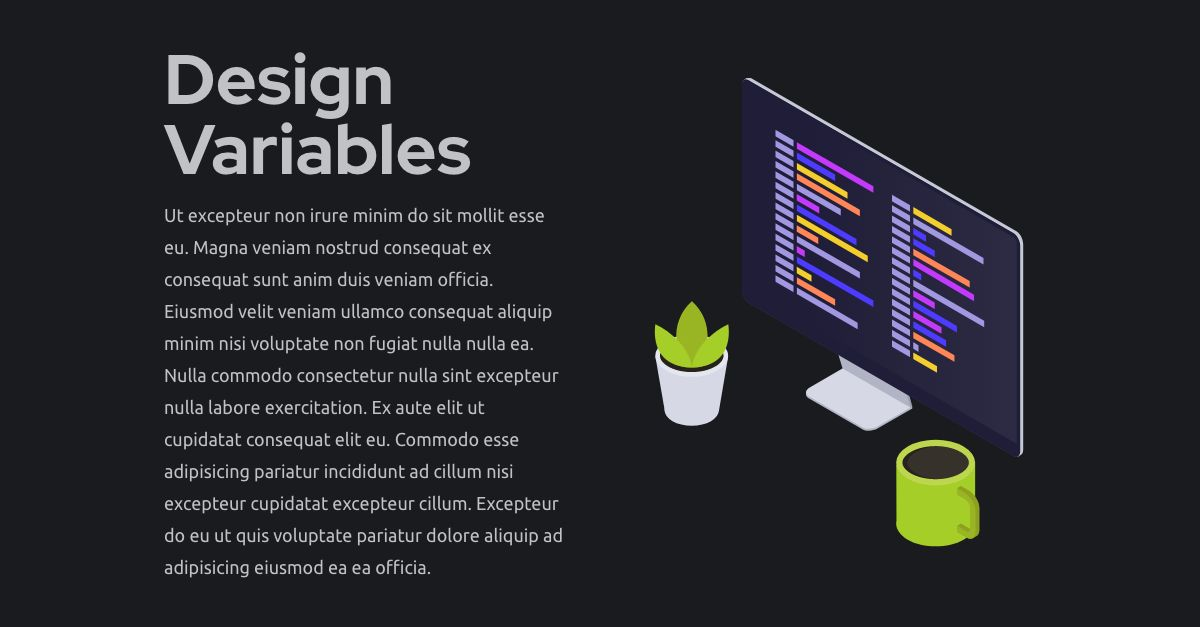
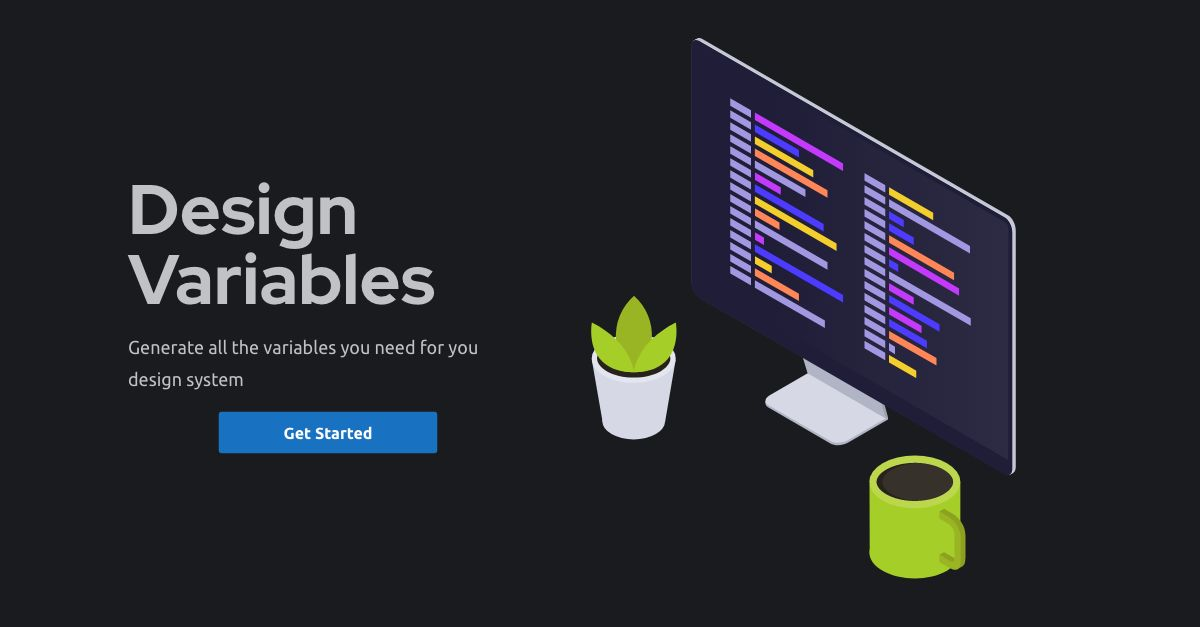
feat: 🎸 updated landing page subtext, added CTA button

diff --git a/src/components/ThemeCodeGeneration.tsx b/src/components/ThemeCodeGeneration.tsx
@@ -1,10 +1,12 @@
 import ActiveScaleSelection from '$/components/ActiveScaleSelection';
 import ActiveVisualization from '$/components/ActiveVisualization';
 import ScaleSwitcher from '$/components/ScaleSwitcher';
+import { CORE_CONTENT_ID } from '$/constants/ids';
 import { gotoNextStep, gotoPreviousStep, gotoStep } from '$/store/generalReducer';
 import { selectIsAtFirstStep, selectIsAtLastStep, selectStepNumber } from '$/store/selectors';
 import { useStoreDispatch, useStoreSelector } from '$/store/storeHooks';
 import { GeneratedCodePreview, ThemeScaleCodeForm } from '$code-generation';
+import VisuallyHidden from '$visually-hidden';
 import { Box, Button, Center, Container, Divider, Group, Paper, Stepper } from '@mantine/core';
 import { flow } from '@mobily/ts-belt';
 import { FC } from 'react';
@@ -15,6 +17,7 @@ const selectCodeGenerationStepperData = createStructuredSelector({
   isAtFirstStep: selectIsAtFirstStep,
   isAtLastStep: selectIsAtLastStep,
 });
+
 const ThemeCodeGeneration: FC = () => {
   const dispatch = useStoreDispatch();
   const { currentStep, isAtFirstStep, isAtLastStep } = useStoreSelector(
@@ -22,55 +25,58 @@ const ThemeCodeGeneration: FC = () => {
   );
 
   return (
-    <Container sx={{ height: '100vh' }} pt={64} id="theme-code-generation">
-      <Box>
-        <Stepper
-          active={currentStep}
-          onStepClick={flow(gotoStep, dispatch)}
-          styles={{
-            steps: {
-              paddingBottom: 16,
-            },
-          }}
-        >
-          <Stepper.Step label="Choose theme type">
-            <Center>
-              <ScaleSwitcher />
-            </Center>
-          </Stepper.Step>
-          <Stepper.Step label="Select Values">
-            <ActiveScaleSelection />
-            <Divider my={16} />
-            <ActiveVisualization />
-          </Stepper.Step>
-          <Stepper.Step label="Code Generation Rules">
-            <ThemeScaleCodeForm />
-          </Stepper.Step>
-          <Stepper.Step label="Copy Code">
-            <Center>
-              <Paper shadow="md">
-                <GeneratedCodePreview />
-              </Paper>
-            </Center>
-          </Stepper.Step>
-        </Stepper>
-        <Divider my={24} />
-        <Center>
-          <Group>
-            {!isAtFirstStep && (
-              <Button color="gray" onClick={flow(gotoPreviousStep, dispatch)}>
-                Back
-              </Button>
-            )}
-            {!isAtLastStep && (
-              <Button disabled={isAtLastStep} onClick={flow(gotoNextStep, dispatch)}>
-                Next
-              </Button>
-            )}
-          </Group>
-        </Center>
-      </Box>
-    </Container>
+    <section id={CORE_CONTENT_ID}>
+      <VisuallyHidden as="h2">Start Generating Your Variables</VisuallyHidden>
+      <Container sx={{ height: '100vh' }} pt={64} id="theme-code-generation">
+        <Box>
+          <Stepper
+            active={currentStep}
+            onStepClick={flow(gotoStep, dispatch)}
+            styles={{
+              steps: {
+                paddingBottom: 16,
+              },
+            }}
+          >
+            <Stepper.Step label="Choose theme type">
+              <Center>
+                <ScaleSwitcher />
+              </Center>
+            </Stepper.Step>
+            <Stepper.Step label="Select Values">
+              <ActiveScaleSelection />
+              <Divider my={16} />
+              <ActiveVisualization />
+            </Stepper.Step>
+            <Stepper.Step label="Code Generation Rules">
+              <ThemeScaleCodeForm />
+            </Stepper.Step>
+            <Stepper.Step label="Copy Code">
+              <Center>
+                <Paper shadow="md">
+                  <GeneratedCodePreview />
+                </Paper>
+              </Center>
+            </Stepper.Step>
+          </Stepper>
+          <Divider my={24} />
+          <Center>
+            <Group>
+              {!isAtFirstStep && (
+                <Button color="gray" onClick={flow(gotoPreviousStep, dispatch)}>
+                  Back
+                </Button>
+              )}
+              {!isAtLastStep && (
+                <Button disabled={isAtLastStep} onClick={flow(gotoNextStep, dispatch)}>
+                  Next
+                </Button>
+              )}
+            </Group>
+          </Center>
+        </Box>
+      </Container>
+    </section>
   );
 };
 

diff --git a/src/components/LandingPage.tsx b/src/components/LandingPage.tsx
@@ -1,37 +1,39 @@
-import { APP_TITLE } from '$/constants/branding';
-import { Box, Center, Text, Title } from '@mantine/core';
+import { APP_DESCRIPTION, APP_TITLE } from '$/constants/branding';
+import { CORE_CONTENT_ID } from '$/constants/ids';
+import { Box, Button, Center, Text, Title } from '@mantine/core';
 import Image from 'next/image';
 import { FC } from 'react';
 
-const IMAGE_SIZE = 800;
+const IMAGE_SIZE = 600;
 
 const LandingPage: FC = () => {
   return (
-    <Center sx={{ width: '100%', height: '100vh' }} px={128}>
+    <Center component="section" sx={{ width: '100%', height: '100vh' }} px={128}>
       <Box sx={{ display: 'flex', width: '100%' }}>
         <Center sx={{ flex: 1 }}>
           <Box sx={{ minWidth: 400, maxWidth: '30vw' }}>
             <Title order={1} sx={{ fontSize: 70, lineHeight: '100%' }} mb={16}>
               {APP_TITLE}
             </Title>
-            <Text size="lg" sx={{ lineHeight: '2rem' }}>
-              Ut excepteur non irure minim do sit mollit esse eu. Magna veniam nostrud consequat ex
-              consequat sunt anim duis veniam officia. Eiusmod velit veniam ullamco consequat
-              aliquip minim nisi voluptate non fugiat nulla nulla ea. Nulla commodo consectetur
-              nulla sint excepteur nulla labore exercitation. Ex aute elit ut cupidatat consequat
-              elit eu. Commodo esse adipisicing pariatur incididunt ad cillum nisi excepteur
-              cupidatat excepteur cillum. Excepteur do eu ut quis voluptate pariatur dolore aliquip
-              ad adipisicing eiusmod ea ea officia.
+            <Text component="p" size="lg" sx={{ lineHeight: '2rem' }} mb={16}>
+              {APP_DESCRIPTION}
             </Text>
+            <Center sx={{ width: '100%' }}>
+              <Button size="md" px={64} component="a" href={`#${CORE_CONTENT_ID}`}>
+                Get Started
+              </Button>
+            </Center>
           </Box>
         </Center>
-        <Center sx={{ flex: 1 }}>
-          <Image
-            src="/icons/programming.svg"
-            alt="programming-icon"
-            height={IMAGE_SIZE}
-            width={IMAGE_SIZE}
-          />
+        <Center sx={{ flexGrow: 1, minWidth: 400 }}>
+          <Box>
+            <Image
+              src="/icons/programming.svg"
+              alt="programming-icon"
+              height={IMAGE_SIZE}
+              width={IMAGE_SIZE}
+            />
+          </Box>
         </Center>
       </Box>
     </Center>

diff --git a/src/pages/_app.tsx b/src/pages/_app.tsx
@@ -1,10 +1,10 @@
 import type { AppProps } from 'next/app';
-import { MantineProvider } from '@mantine/core';
+import { Global, MantineProvider } from '@mantine/core';
 import { Chart } from 'chart.js';
 import { useReducedMotion } from '@mantine/hooks';
 import { Provider as StoreProvider } from 'react-redux';
 import store from '$/store/store';
-import theme, { defaultStyles } from '$/constants/theme';
+import theme, { defaultStyles, globalStyles } from '$/constants/theme';
 import useMountEffect from '$/hooks/useMountEffect';
 import StoreSideEffects from '$/store/StoreSideEffects';
 import { AnalyticsProvider } from '$analytics';
@@ -23,6 +23,7 @@ function MyApp({ Component, pageProps }: AppProps) {
   return (
     <AnalyticsProvider domain={APP_DOMAIN} enabled={ANALYTICS_ENABLED}>
       <MantineProvider theme={theme} styles={defaultStyles} withGlobalStyles withNormalizeCSS>
+        <Global styles={() => globalStyles as any} />
         <StoreProvider store={store}>
           <StoreSideEffects />
           <Component {...pageProps} />

diff --git a/src/pages/index.tsx b/src/pages/index.tsx
@@ -1,6 +1,6 @@
 import type { NextPage } from 'next';
 import Head from 'next/head';
-import { APP_DOMAIN, APP_TITLE } from '$/constants/branding';
+import { APP_DESCRIPTION, APP_DOMAIN, APP_TITLE } from '$/constants/branding';
 import ThemeCodeGeneration from '$/components/ThemeCodeGeneration';
 import LandingPage from '$/components/LandingPage';
 
@@ -10,14 +10,8 @@ const Home: NextPage = () => {
       <Head>
         <title>{APP_TITLE}</title>
         <meta property="og:title" content={APP_TITLE} />
-        <meta
-          name="description"
-          content={'r duis nulla nulla. Esse aliqua tempor ipsum Lorem in.'}
-        />
-        <meta
-          name="og:description"
-          content={'r duis nulla nulla. Esse aliqua tempor ipsum Lorem in.'}
-        />
+        <meta name="description" content={APP_DESCRIPTION} />
+        <meta name="og:description" content={APP_DESCRIPTION} />
         <meta name="og:image" content={`${APP_DOMAIN}/og-image.jpg`} />
         <meta name="og:url" content={APP_DOMAIN} />
       </Head>

diff --git a/tests/basic.spec.ts b/tests/basic.spec.ts
@@ -1,4 +1,5 @@
 import { expect, test } from '@playwright/test';
+import { CTA_BUTTON_TEXT } from './testConstants';
 
 test('Page Loads', async ({ page }) => {
   await page.goto('/');
@@ -7,8 +8,14 @@ test('Page Loads', async ({ page }) => {
 test('Page Has Basic Content', async ({ page }) => {
   await page.goto('/');
 
-  const mainHeading = await page.locator('h1');
+  const landingPageContainer = await page.locator('section:has(h1)');
+  const mainHeading = await landingPageContainer.locator('h1');
+  const description = await landingPageContainer.locator('p');
+  const ctaButton = await landingPageContainer.locator('a');
+
   await expect(mainHeading).toHaveText('Design Variables');
+  await expect(description).toHaveText('Generate all the variables you need for you design system');
+  await expect(ctaButton).toHaveText(CTA_BUTTON_TEXT);
 
   const documentTitle = await page.title();
   expect(documentTitle).toBe('Design Variables');

diff --git a/tests/behaviour.test.ts b/tests/behaviour.test.ts
@@ -1,0 +1,22 @@
+import test, { expect } from '@playwright/test';
+import { isElementOnScreen } from './testUtils';
+import { CTA_BUTTON_TEXT } from './testConstants';
+
+test('CTA Button scrolls to main', async ({ page }) => {
+  await page.emulateMedia({
+    reducedMotion: 'reduce',
+  }); //? We use reduced motion because the smooth scrolling links break the tests
+
+  await page.goto('/');
+
+  const landingPage = await page.locator('section:has(h1)');
+  const coreContent = await page.locator('section:has(h2)');
+
+  await expect(await landingPage.evaluate(isElementOnScreen)).toBeTruthy();
+  await expect(await coreContent.evaluate(isElementOnScreen)).toBeFalsy();
+
+  await landingPage.locator(`"${CTA_BUTTON_TEXT}"`).click();
+
+  await expect(await landingPage.evaluate(isElementOnScreen)).toBeFalsy();
+  await expect(await coreContent.evaluate(isElementOnScreen)).toBeTruthy();
+});

diff --git a/src/constants/theme.ts b/src/constants/theme.ts
@@ -1,6 +1,6 @@
 import fontFamilyRule from '$/utils/fontFamilyRule';
 import { deepUpdate } from '$deep-merge';
-import { MantineTheme, DEFAULT_THEME, MantineProviderProps } from '@mantine/core';
+import { MantineTheme, DEFAULT_THEME, MantineProviderProps, CSSObject } from '@mantine/core';
 
 const bodyFonts = ['Ubuntu', 'Roboto', 'SF Pro', 'Segoe UI', 'sans-serif'];
 const theme: MantineTheme = deepUpdate(DEFAULT_THEME, {
@@ -16,6 +16,17 @@ export const defaultStyles: MantineProviderProps['styles'] = {
   Code: {
     root: {
       tabSize: 4,
+    },
+  },
+};
+
+export const globalStyles: CSSObject = {
+  html: {
+    scrollBehavior: 'smooth',
+  },
+  '@media (prefers-reduced-motion)': {
+    html: {
+      scrollBehavior: 'auto',
     },
   },
 };

diff --git a/src/lib/visually-hidden.tsx b/src/lib/visually-hidden.tsx
@@ -1,0 +1,22 @@
+import { FC, PropsWithChildren } from 'react';
+
+type WithAs = {
+  as?: keyof JSX.IntrinsicElements;
+};
+
+const VisuallyHidden: FC<PropsWithChildren<WithAs>> = ({ children, as: As = 'span' }) => (
+  <As
+    style={{
+      clip: 'rect(0px, 0px, 0px, 0px)',
+      width: 1,
+      height: 1,
+      position: 'absolute',
+      overflow: 'hidden',
+      whiteSpace: 'nowrap',
+    }}
+  >
+    {children}
+  </As>
+);
+
+export default VisuallyHidden;

diff --git a/tests/testUtils.ts b/tests/testUtils.ts
@@ -1,0 +1,10 @@
+export const isElementOnScreen = (element: HTMLElement): boolean => {
+  const rect = element.getBoundingClientRect();
+  if ([rect.top, rect.left].some((v) => v < 0)) return false;
+
+  const vw = Math.max(document.documentElement.clientWidth || 0, window.innerWidth || 0);
+  const vh = Math.max(document.documentElement.clientHeight || 0, window.innerHeight || 0);
+  const isVisible = rect.right <= vw && rect.bottom <= vh;
+
+  return isVisible;
+};

diff --git a/.eslintrc.js b/.eslintrc.js
@@ -31,7 +31,13 @@ module.exports = {
   rules: {
     'prettier/prettier': 'error',
     'linebreak-style': ['error', 'unix'],
-    quotes: ['error', 'single'],
+    quotes: [
+      'error',
+      'single',
+      {
+        avoidEscape: true,
+      },
+    ],
     semi: ['error', 'always'],
     'no-restricted-imports': [
       'error',

diff --git a/src/constants/branding.ts b/src/constants/branding.ts
@@ -1,4 +1,5 @@
 export const APP_TITLE = 'Design Variables';
 export const APP_DOMAIN = 'https://designvariables.com';
+export const APP_DESCRIPTION = 'Generate all the variables you need for you design system';
 
 export const FAVICON_PATH = '/favicon.ico';

diff --git a/playwright.config.ts b/playwright.config.ts
@@ -12,6 +12,9 @@ const config: PlaywrightTestConfig = {
   webServer: {
     command: `PORT=${PORT} yarn ${COMMAND}`,
     url: URL,
+    env: {
+      IS_TESTING: 'true',
+    },
   },
 };
 
